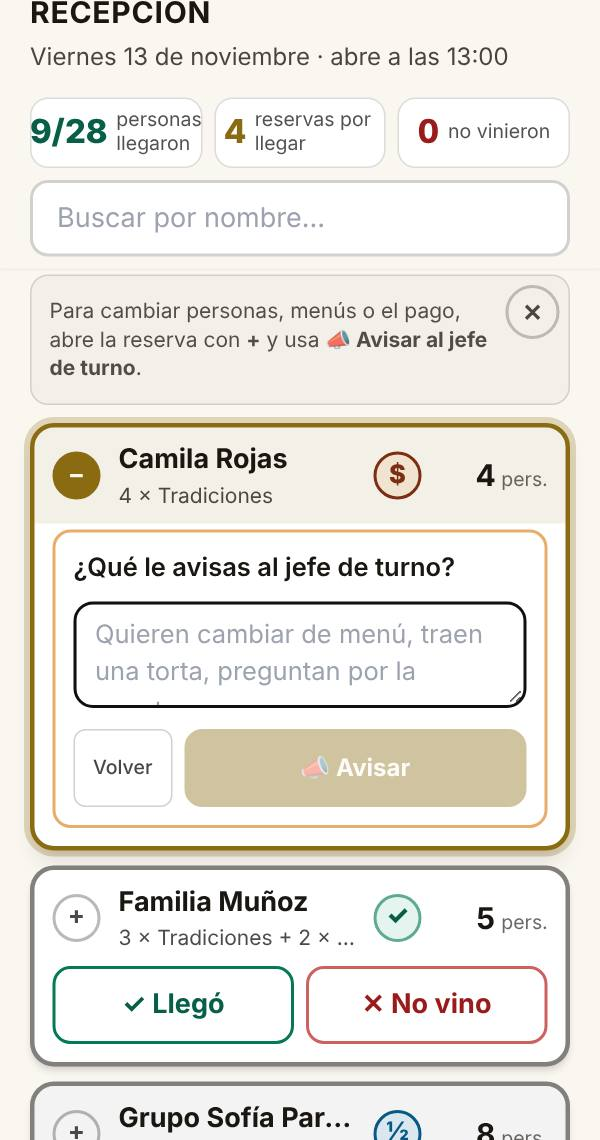
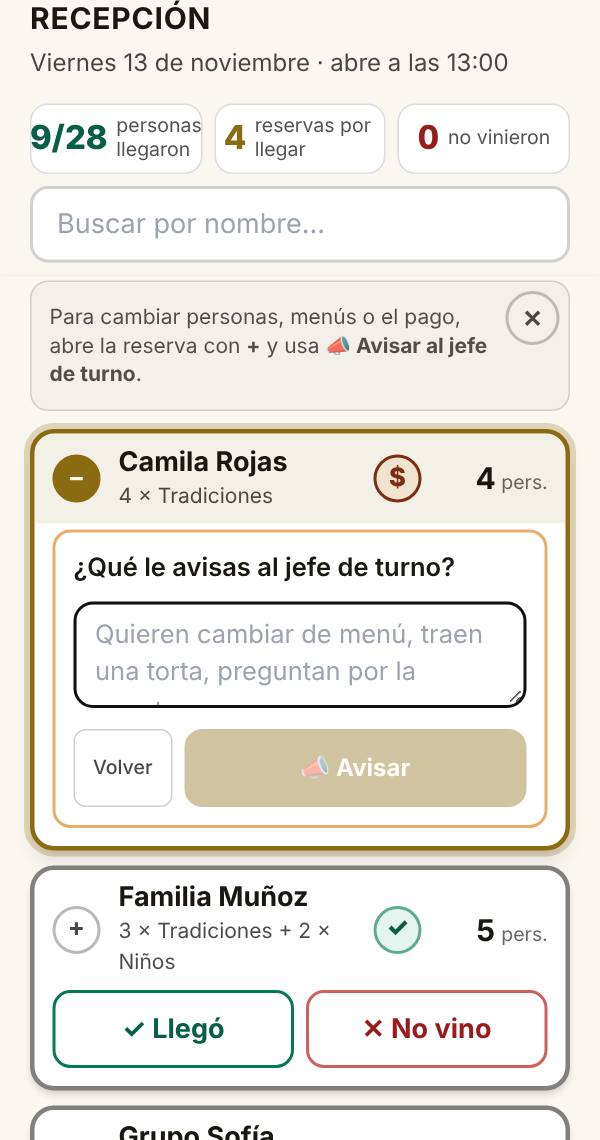
Panel: documentación y fotos de la ayuda de los nombres doblados y la reserva de un día cerrado
- CLAUDE.md y panel/CLAUDE.md: dos reglas fijas (un nombre se dobla, no se
  corta; el marco de la tarjeta manda, que faltaba en el bloque del panel),
  la sección con los dos cambios, la tabla de piezas y la revisión
  PlayStation.
- TRASPASO.md: lo hecho, las decisiones, lo que queda por confirmar con el
  cliente y la regla nueva.
- Las fotos de la ayuda se rehicieron todas; cambiaron nueve (la recepción,
  la página del día y la ventana del equipo), por los nombres que ahora se
  doblan.

Claude-Session: https://claude.ai/code/session_01SbCpLWxVREEENmMrP6xW7a

Changed region(s): [[0.03, 0.0, 0.96, 0.4605], [0.03, 0.7675, 0.96, 1.0]]

diff --git a/panel/CLAUDE.md b/panel/CLAUDE.md
@@ -59,6 +59,19 @@ revisan antes de cada cambio en esta carpeta.
   —dentro de `npm run ventanas`— avisa de un campo que salta respecto de su
   vecino, de un nombre partido en dos renglones y de dos bordes que casi
   calzan.
+- **El marco de la tarjeta manda sobre lo de adentro** (regla del cliente,
+  2026-11-21). El borde de afuera es el más grueso y el más oscuro, y su
+  título va en negrita; lo de adentro —otra tarjeta, un botón, un campo, un
+  aviso— va siempre con menos (`marcoGrupo`, `TITULO_GRUPO` y
+  `marcoTarjeta(…, dentro)` de `TarjetaLista`). Y **un aviso no se dibuja
+  como botón** (`Pastilla tipo="falta"`). Ver "El marco del puesto manda".
+- **Un nombre se dobla, no se corta con "…"** (lo decidió el cliente,
+  2026-11-21: *"se doblan en vez de cortarse"*). En una lista, el nombre de
+  una persona, de un cliente o de un producto ocupa los renglones que
+  necesite: *Matías P…* no dice quién es. Los botones de la fila no se
+  mueven —el nombre ocupa lo que sobra— y la fila crece. Con "…" quedan solo
+  un título entre flechas, un código y el texto de un botón.
+  `revisarPlayStation()` avisa de un texto cortado.
 - **Elegir de una lista que crece se hace con buscador** (regla del
   cliente, 2026-11-12). Los botones a la vista son para opciones fijas y
   pocas; para personas o empresas —vendedores, socios, clientes— van **dos
@@ -78,7 +91,8 @@ revisan antes de cada cambio en esta carpeta.
   qué va a pasar; si pide motivo, queda en la bitácora. **Corregir un día
   cerrado no pide un motivo escrito** (2026-11-21): el panel arma la lista
   de lo que cambió, se confirma con una casilla y esa lista es lo que queda
-  en la bitácora (ver "Corregir un día cerrado: la lista de cambios").
+  en la bitácora (ver "Corregir un día cerrado: la lista de cambios"). Vale
+  para el equipo, los extras y **editar o borrar una reserva** de ese día.
 - **Las lecturas de Google son un presupuesto**: 60 por minuto para todo el
   panel. Nada nuevo lee la planilla por su cuenta: se suma a la tanda que la
   ruta ya precarga (`conLecturas()`), y el PR dice cuántas lecturas cuesta.
@@ -117,7 +131,7 @@ revisan antes de cada cambio en esta carpeta.
   | El nombre de un campo, al lado de su valor y en columna | `CampoAlLado` y `COLUMNA_ROTULO` de `LineaDelDia` |
   | Varios campos de una ficha, en columnas que calzan | `rejilla-campos` dentro de una `caja-campos`, y `fila-ficha` con su `rotulo-ficha` (`globals.css`); los datos de la transferencia, `DatosBancarios` |
   | Una ventana | `Dialogo`: en el computador parte arriba y admite algo en la línea del título (`alLado`) |
-  | Corregir un día cerrado: el aviso de arriba y el pie con la lista de cambios y la casilla | `AvisoCierre` y `PieCorreccion` de `Correccion`, con `lib/correccion.ts` |
+  | Corregir un día cerrado: el aviso de arriba y el pie con la lista de cambios y la casilla | `AvisoCierre` y `PieCorreccion` de `Correccion`, con `lib/correccion.ts`. El pie se acomoda con `modo`: `fila` (la ventana del equipo), `dosFilas` (el formulario de una reserva) y `apilado` (borrar una reserva) |
 - **La ayuda siempre al día** (regla del cliente, 2026-11-13; está también
   en la raíz). Un cambio que altera algo que una ayuda describe la
   actualiza **en el mismo PR**. Cuenta como ayuda:
@@ -531,11 +545,10 @@ aplicaste. Y luego guardar. Eso tiene que ser."*
 - **Volver una reserva a como estaba no es un cambio**: sale de la lista.
 - **Es la misma pieza en la ventana del equipo y en la de las actividades
   extras**, así que cambió en las dos.
-- **Lo que sigue pidiendo un motivo escrito**, y hay que preguntárselo al
-  cliente antes de tocarlo (regla *un cambio de diseño se lleva a sus
-  parecidos*): **editar una reserva de un día cerrado** (`ReservaForm`) y
-  **borrar una reserva de un día cerrado** (página del día). En el borrado,
-  el porqué no sale del cambio mismo.
+- **Editar y borrar una reserva de un día cerrado** seguían pidiendo un
+  motivo escrito; se le preguntó al cliente y pasaron a lo mismo ese día. Ver
+  "Los nombres se doblan, y la reserva de un día cerrado se corrige con
+  casilla", más abajo.
 - **En el computador** el pie es una fila —la lista a la izquierda, la
   casilla y los botones a la derecha— y dice ahí *Estás corrigiendo un día
   cerrado*, así que el aviso de arriba no se dibuja.
@@ -668,6 +681,127 @@ por bueno**.
 - **Un formulario que se abre arriba de una lista se marca con
   `data-ficha`** (hoy, el de cliente nuevo en `ClientesEditor`): la prueba lo
   busca cuando no hay ventana ni tarjeta abierta. Mide 373px, cabe.
+
+## Los nombres se doblan, y la reserva de un día cerrado se corrige con casilla (2026-11-21)
+
+Las dos preguntas que quedaban abiertas del PR #287. El cliente las contestó
+por voz, en una línea: *"¿las listas? Sí, se doblan en vez de cortarse"*. **Se
+leyó como dos sí** —la casilla + lista también para la reserva, y los nombres
+que se doblan— y **van en dos commits separados**, por si lo primero no era lo
+que quiso decir: sacar uno no toca el otro.
+
+### Los nombres se doblan en vez de cortarse
+
+En el celular, la ventana del equipo cortaba el nombre con "…" (*Matías P…*)
+para que *Vino / No vino* no se movieran. Ahora el nombre **se dobla en dos
+renglones**; los botones siguen en su lugar, porque el nombre ocupa lo que
+sobra, y la fila crece si hace falta. Quedó como regla fija (arriba).
+
+**Se llevó a las demás listas que cortaban un nombre**, en el mismo commit:
+
+| Dónde | Qué se dobla |
+|---|---|
+| Ventana del equipo y de las actividades extras | El nombre y el renglón de la plata; el ajuste plegado (`LineaDelDia`) |
+| Reservas de la página del día | El nombre de la reserva |
+| Recepción | El nombre y el menú |
+| Buscadores (`BuscarPersona`, `BuscarEnLista`) | El nombre de cada opción |
+| Rectificar una reserva | El nombre del producto |
+| Informe | El nombre de la persona (en el computador se cortaba) y la lista de la transferencia masiva |
+| Estadísticas | El nombre en las listas con barra |
+
+- **Lo que sigue con "…", a propósito**: el título del periodo entre sus dos
+  flechas (Estadísticas, Vendedores, la lista de cotizaciones), el id de un
+  pedido en la reserva y el correo dentro de su botón.
+- **El renglón de la plata se dobla solo entre un dato y el otro**, como ya
+  hacía en el computador: *propina $14.438* nunca queda con el monto abajo.
+- **`revisarPlayStation()` avisa de un texto cortado con "…"**: algo con
+  `truncate` al que de verdad no le cabe su texto en ese ancho. Pasado por
+  nueve pantallas a 393 y a 1280: ninguno.
+- **Lo que cambia de medida**: en el celular la ventana del equipo crece 10px
+  con el ejemplo (un nombre con *contratado* debajo ocupa tres renglones), y
+  la recepción y la reserva del día bajan 4px, por el interlineado.
+
+### Editar o borrar una reserva de un día cerrado: la lista y la casilla
+
+Es lo mismo que la corrección del equipo (sección anterior), llevado a las
+dos cosas que seguían pidiendo un motivo escrito.
+
+- **`cambiosDeLaReserva(antes, después)`** en `lib/correccion.ts` (pura, con
+  pruebas) dice cada cambio: *Reserva de Familia Toro: menús de 8 ×
+  Tradiciones + 3 × Niños a 9 × Tradiciones + 3 × Niños (de 11 personas a 12
+  personas)* · *monto de $98.000 a $151.000* · *pago de Por pagar a Pagada* ·
+  *se mueve del sábado 7 de noviembre al domingo 8 de noviembre* · *el nombre
+  pasa a …*. Una reserva nueva en un día cerrado es un solo cambio: *Se agrega
+  la reserva de …: 2 personas · 2 × Tradiciones · $98.000 · Por pagar*.
+- **El teléfono y el correo se nombran sin su valor** (*cambió el teléfono*):
+  la lista queda en la bitácora, y el contacto de un cliente no lo ve
+  cualquier cuenta (`privacidad.ts`). Hay una prueba que lo fija.
+- **Se compara lo guardado con lo que el formulario va a escribir**, con los
+  menús compuestos igual en los dos lados (`componerMenu()`): la lista dice lo
+  que de verdad queda en la planilla, sin cambios de puro formato.
+- **El formulario** (`ReservaForm`, con `diaCerrado`; antes `pideMotivo`)
+  termina en `PieCorreccion`: la lista, la casilla y *Guardar corrección*,
+  apagado hasta que haya un cambio y la casilla esté marcada. Si se cambia
+  algo más, la casilla se suelta sola.
+- **Borrar** (`DayView`): en un día cerrado ya no hay `confirm` ni `prompt`
+  del navegador. Se abre una ventana con *Se borra la reserva de Mónica
+  Lillo: 6 personas · 6 × Tradiciones · $264.000 · Pagada*, la casilla y
+  ***Borrar la reserva***. En un día abierto sigue igual: pregunta y borra.
+- **`PieCorreccion` se acomoda según el ancho de su ventana** (`modo`): `fila`
+  —la del equipo, ancha: la lista a la izquierda y los botones a la derecha—,
+  `dosFilas` —el formulario de la reserva: la lista arriba y debajo la casilla
+  con los botones en una fila— y `apilado` —la de borrar, angosta: como en el
+  celular—. En una fila, dentro del formulario, la lista quedaba en una
+  columna de doscientos pixeles. Con un solo cambio la lista no se parte en
+  dos columnas.
+- **La bitácora** dice *Corrigió una reserva de un día cerrado · … · cambios:
+  …*, *Borró una reserva de un día cerrado · … · cambios: Se borra la reserva
+  de …* y *Anotó una reserva en un día cerrado · … · cambios: Se agrega …*
+  (antes, *motivo: …*).
+- **El servidor no cambió su regla**: pide el permiso `corregir` y rechaza
+  una corrección sin ese texto; el error ahora dice *hay que confirmar la
+  lista de cambios*.
+- **Lo que queda con su propio motivo, y está bien**: rectificar una reserva
+  y soltarla ya piden el suyo —es el dato de esa acción— y con él corrigen el
+  día. **Lo que no tiene dónde confirmarse**: editar una cotización ganada
+  cuya reserva está en un día cerrado; el servidor la rechaza y la ventana de
+  cotizar no muestra la lista. Ya era así antes de este cambio.
+- **Lecturas de Google**: ninguna más. **Ningún permiso cambió.**
+- **Ayuda**: el `?` de la página del día dice que con el día cerrado editar o
+  borrar es corregirlo, con la lista y la casilla.
+- **Probado en el panel de ejemplo**, en el sábado 7, cerrado: a una reserva
+  se le cambia el nombre y se le suma un menú —la lista dice los dos,
+  *Guardar corrección* está apagado sin cambios y sin la casilla— y otra se
+  borra. La bitácora queda con *cambios: Reserva de Familia Toro: el nombre
+  pasa a Familia Toro Soto; … menús de 8 × Tradiciones + 3 × Niños a 9 × …* y
+  *cambios: Se borra la reserva de Mónica Lillo: 6 personas · 6 × Tradiciones
+  · $264.000 · Pagada*.
+
+### El formulario de una reserva nunca se había medido
+
+Al agregar las escenas nuevas a `npm run ventanas` apareció otra escena que
+medía lo que no era: **`v-reserva-editar` apretaba el primer botón que
+empezaba con *Editar*, que es *Editar actividades***, y medía la ventana de
+los extras. El formulario de editar una reserva no estaba en la prueba.
+
+- **La escena aprieta ahora *✎ Editar***, el de la reserva. Y hay dos nuevas:
+  `v-reserva-editar-dia-cerrado` —la más larga: anotada a mano y pagada, con
+  un cambio ya hecho— y `v-reserva-borrar-dia-cerrado`. Son 43.
+- **Medido de verdad, el formulario no cabía**: 760px con el pie de la
+  corrección. Solo en el computador, ahora:
+  - la fecha comparte la fila con el nombre, y el teléfono con el correo, en
+    una grilla de 9,5rem + el resto;
+  - *La reserva se cayó…* sube a la línea de *¿Cómo viene el pago?*, a la
+    derecha (36px, es lo raro);
+  - *¿Cómo pagó?* lleva sus tres botones en su misma línea;
+  - la columna de la izquierda es un poco más ancha que la de los menús.
+- **Las medidas a 1280×650**: reserva nueva 505px, editar una de Shopify 489,
+  editar una a mano en un día cerrado con un cambio **589** (era 760), borrar
+  en un día cerrado 340.
+- **En el celular** el formulario de un día abierto mide lo mismo que antes
+  (1.003px la reserva nueva). *La reserva se cayó…* se dibuja dos veces en el
+  HTML —al pie en el celular, en la línea del pago en el computador—: en una
+  prueba se pide el que se ve.
 
 ## El token de Shopify de la tienda real (2026-11-21)
 
@@ -1195,7 +1329,8 @@ prueba**, y falla antes del PR:
 
 Y para la pasada con Playwright, **`revisarPlayStation(page)`** de
 `pruebas/playstation.mjs`: devuelve la letra bajo 13px, los botones bajo
-34px y si la página se corre de lado, en lo que se ve en ese momento. La
+34px, si la página se corre de lado y —desde el 2026-11-21— **un texto
+cortado con "…"**, en lo que se ve en ese momento. La
 primera vez que se probó encontró lo que ya se sabía de la entrada (letra de
 12px en los rótulos y el botón del tema de 26px).
 

diff --git a/TRASPASO.md b/TRASPASO.md
@@ -43,7 +43,9 @@ conversación: hay que preguntarlo o mirarlo antes de darlo por hecho.
   día cerrado con una casilla y la lista de cambios**, sin motivo escrito, y
   cuatro retoques que marcó con fotos (el marco del puesto, el puesto
   habitual como desplegable, *falta su cuenta* como aviso y la pastilla
-  *falta $…* que pisaba el botón de propina).
+  *falta $…* que pisaba el botón de propina), **los nombres que se doblan en
+  vez de cortarse** y **la casilla + lista también al editar o borrar una
+  reserva de un día cerrado**.
   https://github.com/ayc-y-blp/aycyblp/pull/287
 - **El cliente lo está mirando en la versión de prueba, en su notebook, y
   va mandando fotos** de lo que quiere más junto o más alineado. Preguntó
@@ -560,6 +562,22 @@ piezas, no tamaño de botones ni de letra.**
   - **`npm run ventanas` falla si una escena no encuentra qué medir** (antes
     decía *ok · nada de 0px*, y así estuvo la del cliente nuevo). Un
     formulario que no es ventana ni tarjeta se marca con `data-ficha`.
+- **Las dos preguntas que quedaban**, contestadas por el cliente en una línea
+  dictada: *"¿las listas? Sí, se doblan en vez de cortarse"*. **Se leyó como
+  dos sí y van en dos commits separados** (`61a4b69` y `907619a`), por si lo
+  de la reserva no era lo que quiso decir. Detalle en `panel/CLAUDE.md`, "Los
+  nombres se doblan, y la reserva de un día cerrado se corrige con casilla":
+  - **Los nombres se doblan en vez de cortarse con "…"**, en la ventana del
+    equipo y en las demás listas (extras, reservas del día, recepción,
+    buscadores, informe, estadísticas). `revisarPlayStation()` avisa de un
+    texto cortado.
+  - **Editar o borrar una reserva de un día cerrado** muestra la lista de lo
+    que cambia y una casilla, en vez de pedir un motivo escrito
+    (`cambiosDeLaReserva()`, `PieCorreccion` con `modo`). El teléfono y el
+    correo se nombran sin su valor. La bitácora dice *cambios: …*.
+  - **El formulario de una reserva no estaba en la prueba de ventanas** (la
+    escena abría *Editar actividades*). Medido, el más largo daba 760px; en
+    el computador ahora mide 589.
 
 ---
 
@@ -700,6 +718,14 @@ Cada una tiene su sección con fecha en `CLAUDE.md` o `panel/CLAUDE.md`.
   un mínimo (la columna del total del Informe).
 - **Un aviso no se dibuja como botón**: *falta su cuenta* es una pastilla
   fina, una sola pieza para las cuatro pantallas que la muestran.
+- **Un nombre se dobla, no se corta** (21-11-2026): *Matías P…* no dice quién
+  es. La fila crece un renglón y los botones no se mueven.
+- **La lista de cambios de una reserva no lleva el teléfono ni el correo**,
+  solo que cambiaron: queda en la bitácora, y el contacto se recorta por rol.
+- **Una escena de la prueba tiene que apretar el botón que dice, no el
+  primero que se le parece**: dos escenas de `ventanas` midieron por semanas
+  otra cosa (*nada*, y la ventana de los extras). Si una escena deja de medir
+  lo suyo, ahora falla o se nota en su medida.
 - **El encargado de turno no ve cotizaciones; el vendedor ve todo y toca lo
   suyo; el contacto de los clientes se recorta por rol en el servidor**
   (`lib/privacidad.ts`).
@@ -730,9 +756,12 @@ Cada una tiene su sección con fecha en `CLAUDE.md` o `panel/CLAUDE.md`.
   equipo del día con el formulario de un ajuste abierto, y su cara de
   reservas. Las dos crecen con lo que tenga el día; con más gente o más
   puestos que el ejemplo, la de trabajadores también pasa de una pantalla.
-- **Editar o borrar una reserva de un día cerrado sigue pidiendo un motivo
-  escrito**: no se cambió con la corrección del equipo. **(Por confirmar)**
-  con el cliente si también pasa a casilla y lista.
+- **Editar una cotización ganada cuya reserva está en un día cerrado** no
+  tiene dónde confirmar la lista de cambios: el servidor la rechaza. Ya era
+  así. **(Por confirmar)** si hace falta.
+- **(Por confirmar)** que el cliente quiso decir que sí a la casilla + lista
+  para la reserva de un día cerrado: su respuesta fue una línea dictada. Si
+  no, se revierte el commit `907619a` y los nombres doblados se quedan.
 - **Varias piezas se dibujan dos veces en el HTML** (una para el celular y
   otra para el computador): en una prueba se pide la que se ve
   (`button:visible`, `locator('visible=true')`).
@@ -806,7 +835,7 @@ Cada una tiene su sección con fecha en `CLAUDE.md` o `panel/CLAUDE.md`.
 | # | Qué | Siguiente paso concreto | Quién |
 |---|---|---|---|
 | 1 | **PR #287** (el computador más compacto, las ventanas y la corrección) | Esperar *"mergea"*. Entonces: los dos chequeos de Vercel en `success` para el último commit, mergear, comprobar el panel (`/login` 200, `/api/publico/fechas` 200, webhook sin firma 401) y poner la rama al día con `main`. La preview del panel se abre con la sesión de Vercel del equipo. **Va por el camino *con prueba***: toca cómo se corrige un día cerrado | Cliente decide; Claude mergea |
-| 2 | **Lo que quedó de las ventanas** | (a) Preguntarle al cliente si **editar y borrar una reserva de un día cerrado** también pasan de motivo escrito a casilla y lista. (b) Las dos de `NO_CABEN` (el ajuste abierto en la línea de una persona, y la cara de reservas): solo si el cliente las marca. (c) Cuentas entre 1024 y 1279px, con la columna del rol angosta. (d) Lo que siga marcando con fotos desde la versión de prueba. Detalle en `panel/CLAUDE.md`, "Las ventanas caben en la pantalla del computador" | Claude propone; cliente decide |
+| 2 | **Lo que quedó de las ventanas** | (a) **Hecho**: editar y borrar una reserva de un día cerrado ya van con casilla y lista; falta que el cliente lo vea en la versión de prueba. (b) Las dos de `NO_CABEN` (el ajuste abierto en la línea de una persona, y la cara de reservas): solo si el cliente las marca. (c) Cuentas entre 1024 y 1279px, con la columna del rol angosta. (d) Lo que siga marcando con fotos desde la versión de prueba. Detalle en `panel/CLAUDE.md`, "Las ventanas caben en la pantalla del computador" | Claude propone; cliente decide |
 | 3 | **Compras de prueba en la tienda real** | En `brasas-sitio.vercel.app`, una compra de cada modalidad (con Mercado Pago, según lo conversado): ver que llegue al panel con fecha, nombre, correo, teléfono y la modalidad; que la regla de medios de pago por SKU oculte el que no corresponde; después devolver | Cliente |
 | 4 | **`SHOPIFY_DOMINIO` de Production** | **(Por confirmar)** que diga `lo-pirque.myshopify.com`; si no, ponerlo y hacer Redeploy; comprobar con *Revisar Shopify ahora* | Cliente |
 | 5 | **El link de estado de un pedido viejo** | Abrir uno `brasasdelopirque.cl/<id>/orders/…?key=…` después del lanzamiento y ver que llegue a `tienda.` con su `?key=` | Cliente |
@@ -983,6 +1012,8 @@ misma pasada.
   borde de afuera es el más grueso y oscuro y su título va en negrita; lo de
   adentro —otra tarjeta, un botón, un campo— va con menos. Y un aviso no se
   dibuja como botón.
+- **Un nombre se dobla, no se corta con "…"** (21-11-2026): en una lista, el
+  nombre ocupa los renglones que necesite.
 - **Los formularios van alineados** (21-11-2026): los nombres de los campos
   en una columna y los valores en otra, todos partiendo en la misma
   vertical; nunca un campo pegado a su nombre porque la palabra es más

diff --git a/CLAUDE.md b/CLAUDE.md
@@ -152,6 +152,13 @@ más abajo; esto es la lista para revisar.
   tarjetas, `marcoTarjeta(…, dentro)` (`TarjetaLista`). Y **un aviso no se
   dibuja como botón**: lo que no se aprieta va sin borde grueso ni esquinas
   de botón (`Pastilla tipo="falta"` para *falta su cuenta*).
+- **Un nombre se dobla, no se corta con "…"** (lo decidió el cliente,
+  2026-11-21: *"se doblan en vez de cortarse"*). En una lista, el nombre de
+  una persona, de un cliente o de un producto ocupa los renglones que
+  necesite: *Matías P…* no dice quién es. Los botones de la fila no se
+  mueven —el nombre ocupa lo que sobra— y la fila crece. Con "…" quedan solo
+  un título entre flechas, un código y el texto de un botón.
+  `revisarPlayStation()` avisa de un texto cortado.
 - **Elegir de una lista que crece se hace con buscador** (regla del
   cliente, 2026-11-12). Los botones a la vista son para opciones fijas y
   pocas; para personas o empresas —vendedores, socios, clientes— van **dos
@@ -171,7 +178,8 @@ más abajo; esto es la lista para revisar.
   qué va a pasar; si pide motivo, queda en la bitácora. **Corregir un día
   cerrado no pide un motivo escrito** (2026-11-21): el panel arma la lista
   de lo que cambió, se confirma con una casilla y esa lista es lo que queda
-  en la bitácora.
+  en la bitácora. Vale para el equipo, los extras y **editar o borrar una
+  reserva** de ese día.
 - **Las lecturas de Google son un presupuesto**: 60 por minuto para todo el
   panel. Nada nuevo lee la planilla por su cuenta: se suma a la tanda que la
   ruta ya precarga (`conLecturas()`), y el PR dice cuántas lecturas cuesta.
